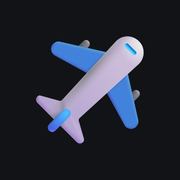
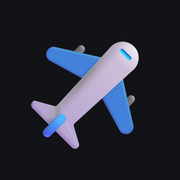
v1.63.5: center the Home Screen plane by visual weight, not bounding box
The v1.63.3 icon centered the plane's bounding box, but the nose and wing carry the weight, so it still
looked pushed up and to the right (visual centre about 6px off on the 180px icon). The plane is now placed so
its visual mass sits on the centre (85% of the way, to keep the outline inside the safe margin).

Claude-Session: https://claude.ai/code/session_01Tavpr9wqt3mob5S7qV4xjA

diff --git a/index.html b/index.html
@@ -14,7 +14,7 @@
   <meta name="apple-mobile-web-app-status-bar-style" content="black-translucent">
 
   <link rel="stylesheet" href="https://fonts.googleapis.com/css2?family=Material+Symbols+Outlined:opsz,wght,FILL,GRAD@24,400,0,0" />
-  <link rel="stylesheet" href="css/style.css?v=1.63.4">
+  <link rel="stylesheet" href="css/style.css?v=1.63.5">
 </head>
 <body>
 
@@ -750,6 +750,6 @@
       }, 6000);
     })();
   </script>
-  <script type="module" src="js/app.js?v=1.63.4"></script>
+  <script type="module" src="js/app.js?v=1.63.5"></script>
 </body>
 </html>

diff --git a/js/config.js b/js/config.js
@@ -1,4 +1,4 @@
-export const APP_VERSION = "v1.63.4";
+export const APP_VERSION = "v1.63.5";
 
 // Who may sign in as which role is NOT in this file (the repo is public): it lives in the Firestore document milestrack_config/roles,
 // {primary: [...], sister: [...], member1: [...], member2: [...], test: [...], labels: {primary: "...", ...}}: lowercase email arrays plus the display names.

diff --git a/sw.js b/sw.js
@@ -1,4 +1,4 @@
-const CACHE_NAME = 'milestrack-cache-v1.63.4';
+const CACHE_NAME = 'milestrack-cache-v1.63.5';
 
 const CORE_ASSETS = [
   './',
